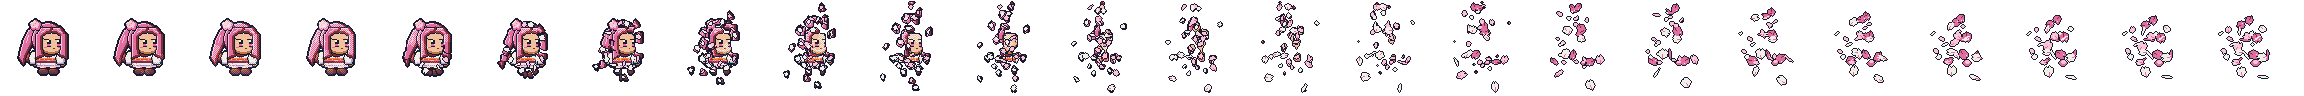
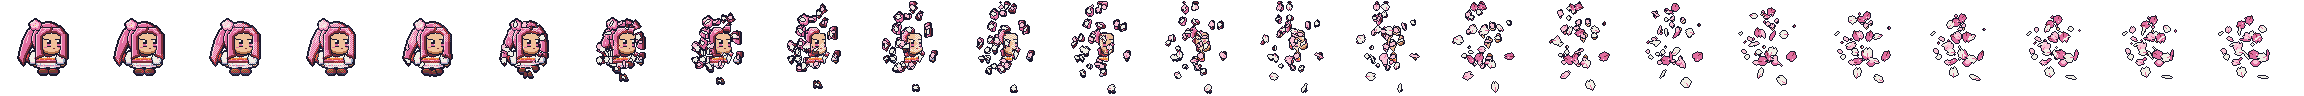
Petal Drift peels over the whole strip; ghost, flare, ward glow and gust fades
Claude-Session: https://claude.ai/code/session_01J8LgTLVYzThXjNSRVhWqep

diff --git a/tools/sprites/generate.py b/tools/sprites/generate.py
@@ -2821,9 +2821,9 @@ def drift_plan():
     cen = [(sum(x for x, _ in g) / len(g), sum(y for _, y in g) / len(g)) if g else seeds[i] for i, g in enumerate(groups)]
     dep = [sum(depth[p] for p in g) / len(g) if g else 0.0 for g in groups]
     dmax = max(dep) or 1.0
-    start = [0.03 + 0.42 * (dep[i] / dmax) + 0.05 * (1 - (cen[i][0] - 28) / 40) + rng.uniform(0, 0.05)
+    start = [0.02 + 0.52 * (dep[i] / dmax) + 0.05 * (1 - (cen[i][0] - 28) / 40) + rng.uniform(0, 0.05)
              for i in range(DRIFT_SEEDS)]
-    start = [min(max(v, 0.03), 0.5) for v in start]
+    start = [min(max(v, 0.02), 0.62) for v in start]
     # the 16 chunks that become the swirl's petals: spread over the body (every other by start time), matched to the
     # slots top to bottom so they don't cross over
     order = sorted(range(DRIFT_SEEDS), key=lambda i: start[i])
@@ -2876,8 +2876,8 @@ def drift_dissolve_frame(k: int) -> Image.Image:
             a = i * 2.4
             tx += math.cos(a) * 10 * u - 5 * u
             ty += -12 * u + 5 * u * u
-        shrink = 1 - 0.85 * smooth(u / 0.55)
-        keep = 1 - smooth((u - 0.12) / 0.55)  # share of the chunk's own pixels still drawn (dithered away)
+        shrink = 1 - 0.85 * smooth(u / 0.9)
+        keep = 1 - smooth((u - 0.1) / 0.9)  # share of the chunk's own pixels still drawn (dithered away)
         for x, y in g:
             nx, ny = m + (x - m) * sq, y
             qx = round(tx + (nx - sx0) * shrink)
@@ -2900,6 +2900,7 @@ def drift_dissolve_frame(k: int) -> Image.Image:
             if 0.04 < um < 0.7 + 0.3 * (i % 3) / 2:
                 a = i * 2.4
                 ward_petal(pc, min(max(tx, 8), CELL - 9), min(max(ty, 8), CELL - 9), a + 5 * um, max(2.0, 5 - 3 * um), math.cos(6 * um + i), PINK_L if i % 2 else WHITE)
+    drift_dissolve_frame.body_px = sum(1 for v in out.getchannel("A").getdata() if v)  # (for tuning the peel)
     out = outline(out)
     for _, x, y, ang, length, fl, col in sorted(parts, key=lambda q: q[0]):
         ward_petal(pc, x, y, ang, length, fl, col)

diff --git a/CLAUDE.md b/CLAUDE.md
@@ -100,7 +100,7 @@ A mobile real-time PvP arena shooter. Combat feel is inspired by top-down roguel
   then `godot --path . --headless --import`
 
 ## Status
-- **Ability transitions** (2026-11-01, `ability-transitions`, cosmetic only): Petal Drift dissolve / reform are now 24 frames at 60 fps (`DISSOLVE_STRIP_FRAMES`, generate.py `DISSOLVE_FRAMES`, `drift_plan`): her outline (hair, hem, hands) peels off first, each chunk carries its own pixels, bulges outward, crumbles into a petal and spirals into its swirl slot; the reform is that backwards. The swirl loops a whole number of times between the two (`_draw_drift`), so it ends on the frame the reform starts on; facing / heading and lean ease over the dissolve and reform instead of snapping; a drift cut short (stun) reforms from the same frame. Her sprite fades out under the first dissolve frame and fades in under the reform's last `REFORM_FADE` (`SpecialFx.owner_alpha`). Every held weapon now fades out / in over `Player.GUN_FADE_TIME` when a pose replaces him (`_gun_fade`, `_gun_suppressed`) instead of popping. `SpecialFx.process_priority` -100 fixes a one-frame blank when a pose ended (the Player read stale state). Preview tool: `tools/transition_preview.gd`.
+- **Ability transitions** (2026-11-01, `ability-transitions`, cosmetic only): Petal Drift dissolve / reform are now 24 frames at 60 fps (`DISSOLVE_STRIP_FRAMES`, generate.py `DISSOLVE_FRAMES`, `drift_plan`): her outline (hair, hem, hands) peels off first, each chunk carries its own pixels, bulges outward, crumbles into a petal and spirals into its swirl slot; the reform is that backwards. The swirl loops a whole number of times between the two (`_draw_drift`), so it ends on the frame the reform starts on; facing / heading and lean ease over the dissolve and reform instead of snapping; a drift cut short (stun) reforms from the same frame. Her sprite fades out under the first dissolve frame and fades in under the reform's last `REFORM_FADE` (`SpecialFx.owner_alpha`). Every held weapon now fades out / in over `Player.GUN_FADE_TIME` when a pose replaces him (`_gun_fade`, `_gun_suppressed`) instead of popping. `SpecialFx.process_priority` -100 fixes a one-frame blank when a pose ended (the Player read stale state). Follow-ups: the dissolve erodes over the whole strip (~5% of her pixels per frame, `drift_plan` start times 0.02..0.62, chunk pixels dither away over the full run); going ghostly (i-frames, hidden in smoke) eases via `Player._ghost_a` (`GHOST_FADE_TIME`) instead of jumping 1 -> 0.45; Flare Burst's charge pose fades out over the ring's flash (`FLARE_FADE_OUT`); the Blossom Ward floor glow fades after it ends (`WARD_GLOW_FADE`); Leaf Gust fades over its last 0.12 s. Preview tool: `tools/transition_preview.gd` (char= special= move= aim= press=, see its header).
 - **Bug sweep 2** (2026-11-01, `bug-sweep-2`): a special/skill button held (or tapped) while dead no longer fires on the respawn frame (`Player.simulate` keeps `_prev_skills` current while dead); `MatchController.remove_player(id, scores, humans)` ends a running match when no human is left in it (bots alone, spectator waiting; `MatchRules.has_human`); a listen-server host takes one of the `MAX_CLIENTS` seats (`NetSession.start_server(..., max_clients)`, host passes `MAX_CLIENTS - 1`: a fifth human could connect but never start); snapshots go out as one packet per `SNAPSHOT_PLAYERS_PER_PACKET` (2) players sharing a tick (`NetServer.snapshot_packets`; ~440 B per player, a 4-player snapshot was 1.8 KB, above ENet's MTU 1392 and fragmented; `NetClient.on_snapshot` merges packets of one tick; `LanDiscovery.VERSION` 2); `tools/balance_sim.gd` no longer leaks an `Arena` that never entered the tree (that was the exit "RID leaked / resources still in use" warning: an `Arena` only parents its crates / pickups / projectiles in `_ready`, so one freed outside the tree leaks them; a normal game exit with `--verbose` is clean). Tests: `tests/test_sweep2.gd`, `tests/test_match.gd`. Known, not fixed: the server prints "Unable to send packet on channel N" when two clients vanish in the same poll (rpc to a peer ENet already dropped).
 - **Playtest UI + FFA fixes** (2026-11-01, `ui-lockon-ffa`): auto-aim reticle is now four corner brackets (yellow, 1 px dark outline, `Effects._draw_aim_marker`) that ease in from a wider box on each new lock then pulse, sized by the target's `form_scale` (`Effects.aim_scale`); title fighters moved to the sides (`TitleBackdrop.TEAM_INNER_X` 270, drawn at `FIGHTER_SCALE` 0.75) so no menu button covers them (checked 2532x1170 and 1334x750); lobby Mode/Arena buttons grow to fit their text (no more "Arena: Found..."); bots now target every other fighter including bots (FFA, no teams: `BotBrain.hunts_bots` removed; test `test_bot_can_target_another_bot`).
 - **Respawn + pickups + stun edge cases** (2026-11-01, `respawn-pickups`): spawn protection is now `PlayerStats.spawn_protect` (`RESPAWN_IFRAME_TIME` 1.5 s, synced as `StateField.SPAWN_PROTECT`, ends on your first shot, also on replay; dash i-frames stay separate): sprite flickers (faster for the last 0.4 s) with a cool shimmer plus a pulsing floor ring, `Player.spawned` -> `Effects.spawn_pop` (floor ring + sparkles) + `spawn` chime + small shake. Energy pickups are back (`E` in layouts; `W` still ignored, one-weapon design): `arena/pickup_field.gd` (`PickupField`: +`ENERGY_PICKUP_AMOUNT` 80, `PICKUP_RESPAWN` 12 s, only when energy < max, authority collects, `rpc_pickups` mirrors `Vector2(timer, collector)` per spot; clients count down locally): bobbing crystal + glow, pad dims while empty with a filling ring + seconds, pop-in ring when back, burst + floating "+80" + `pickup` / `pickup_ready` sounds. New pad/crystal art (generate.py `pickup_art`). A stun now ends Staff Whirl, Petal Drift (and its i-frames) and Shadow Step (surfaces on free floor, no strike) in the shared sim (`Player._interrupt_channels`). Tests: `tests/test_respawn_pickups.gd`; preview `tools/respawn_preview.gd` (`window/size/viewport_width/height` in override.cfg give 2532x1170 movie frames; movie frame = 2 physics frames).
